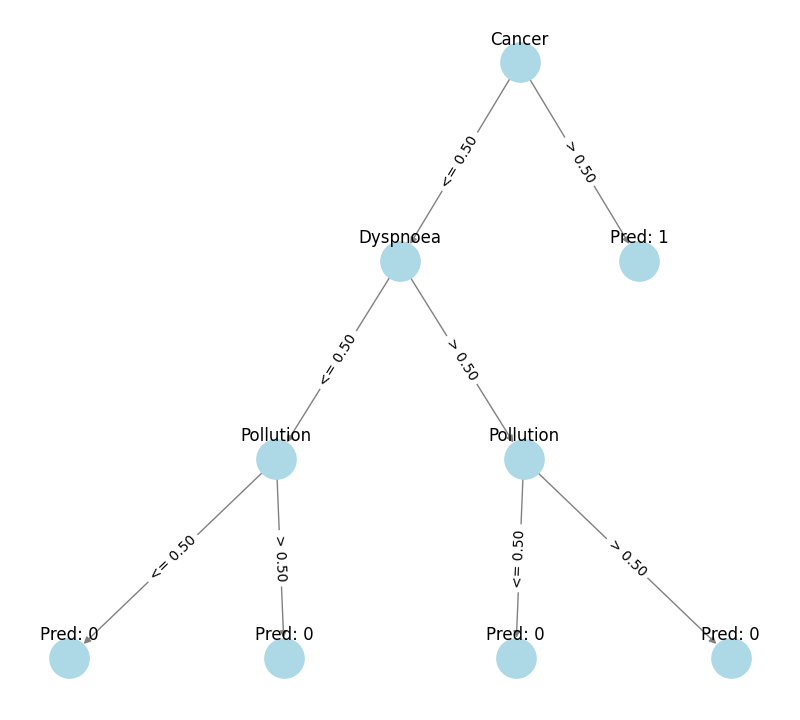
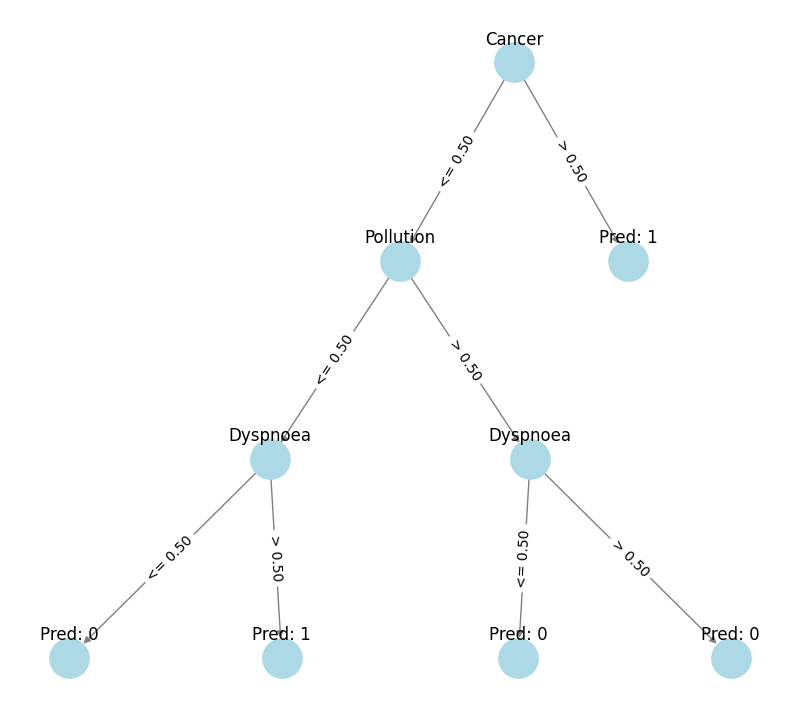
Added seed to the random experiments

diff --git a/asvFormula/bayesianNetworks/bayesianNetwork.py b/asvFormula/bayesianNetworks/bayesianNetwork.py
@@ -97,21 +97,21 @@ def drawDecisionTree(decisionTree: nx.DiGraph, filePath : str = None):
 
     plt.show()
 
-def decisionTreeFromDataset(dataset : pd.DataFrame, target_feature, maximum_depth, rand_state=42):
+def decisionTreeFromDataset(dataset : pd.DataFrame, target_feature, maximum_depth, seed) -> tree.DecisionTreeClassifier:
     X = dataset.drop(target_feature, axis=1)
     y = dataset[target_feature]
 
-    X_train, X_test, y_train, y_test = train_test_split(X, y, test_size=0.2, random_state=rand_state)
+    X_train, X_test, y_train, y_test = train_test_split(X, y, test_size=0.2, random_state=seed)
 
-    rf_model = tree.DecisionTreeClassifier(max_depth=maximum_depth, random_state=rand_state)
+    rf_model = tree.DecisionTreeClassifier(max_depth=maximum_depth, random_state=seed)
     # These trees will always be binary ones, that's the implementation is sklearn.
     rf_model.fit(X_train, y_train)
     print(f'The model accuracy is : {rf_model.score(X_test, y_test)}')
     
     return rf_model
 
-def datasetFromBayesianNetwork(model, n):
-    return model.simulate(n_samples=n)
+def datasetFromBayesianNetwork(model : BayesianNetwork, n, seed : int):
+    return model.simulate(n_samples=n, seed = seed)
 
 #It returns the mean value for each possible value of the feature. 
 def meanPredictionForDTinBN(dtClassifer : DecisionTreeClassifier, bayesianNetwork : VariableElimination, valuesPerFeature : dict[str, list], variableToPredict : str, instance : pd.Series, fixedFeatures : list[str]) -> list[float]:

diff --git a/asvFormula/datasetManipulation.py b/asvFormula/datasetManipulation.py
@@ -1,6 +1,7 @@
 from sklearn.preprocessing import LabelEncoder
 from pgmpy.models import BayesianNetwork
 from asvFormula.bayesianNetworks.bayesianNetwork import *
+import random
 
 def encodeCategoricalColumns(dataset):
     encodingDict = {}
@@ -13,15 +14,17 @@ def encodeCategoricalColumns(dataset):
     return encodingDict, encodedDataset
 
 
-def initializeDataAndRemoveVariable(BNmodel : BayesianNetwork, variableToPredict : str, numberOfSamples : int, treeMaxDepth : int):
+def initializeDataAndRemoveVariable(BNmodel : BayesianNetwork, variableToPredict : str, numberOfSamples : int, treeMaxDepth : int, seed = None):
     # Create a BNDatabaseGenerator object from the model
-    dataFromBN = datasetFromBayesianNetwork(BNmodel, numberOfSamples)
+    np.random.seed(seed)
+    random.seed(seed)
+    dataFromBN = datasetFromBayesianNetwork(BNmodel, numberOfSamples, seed)
 
     BNmodel.remove_node(variableToPredict) # We remove the variable to predict from the BN model so that we won't have this information when we are going to predict it
     BNInference = VariableElimination(BNmodel)
 
     valuesPerFeature, encodedDataset = encodeCategoricalColumns(dataFromBN)
-    dtTreeClassifier = decisionTreeFromDataset(encodedDataset, variableToPredict , treeMaxDepth)
+    dtTreeClassifier = decisionTreeFromDataset(encodedDataset, variableToPredict , treeMaxDepth, seed)
 
     featureColumns = list(dataFromBN.columns)
     featureColumns.remove(variableToPredict)  

diff --git a/asvFormula/experiments.py b/asvFormula/experiments.py
@@ -18,8 +18,8 @@ def showMeanPredictionOfModel(variableToPredict : str, completeBNInference : Var
     
     def meanPredictionForDT():
         global meanPredictions, meanProbsPredictions
-        meanPredictions = meanPredictionForDTinBN(dtTreeClassifier, completeBNInference, valuesPerFeature, variableToPredict, asv.instance, fixedFeatures)
-        meanProbsPredictions = meanProbabilityPredictionForDTinBN(dtTreeClassifier, completeBNInference, valuesPerFeature, variableToPredict, asv.instance, fixedFeatures)
+        meanPredictions = meanPredictionForDTinBN(dtTreeClassifier, asv.featureDistributions, valuesPerFeature, variableToPredict, asv.instance, fixedFeatures)
+        meanProbsPredictions = meanProbabilityPredictionForDTinBN(dtTreeClassifier, asv.featureDistributions, valuesPerFeature, variableToPredict, asv.instance, fixedFeatures)
 
     meanPredDTTime = timeit.timeit(meanPredictionForDT, number=1)
     
